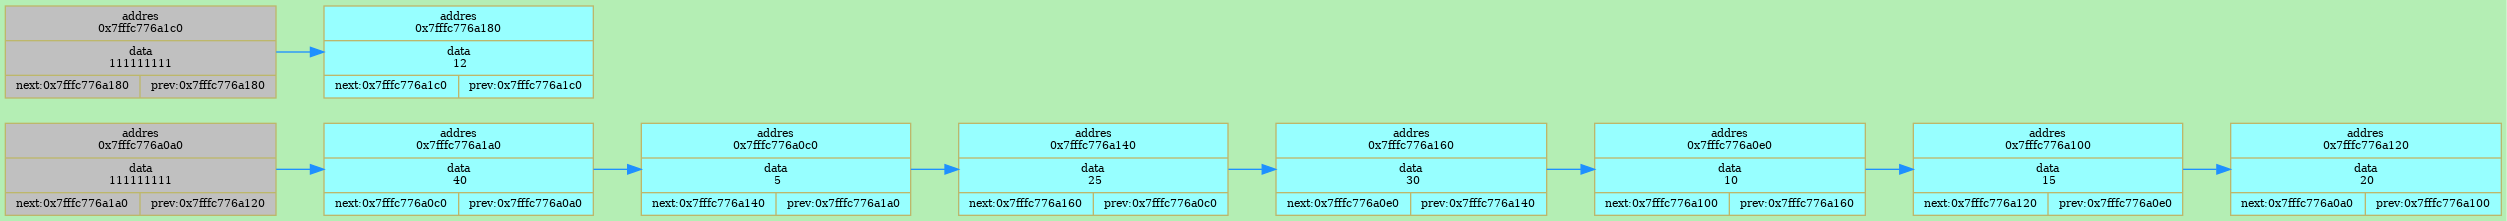
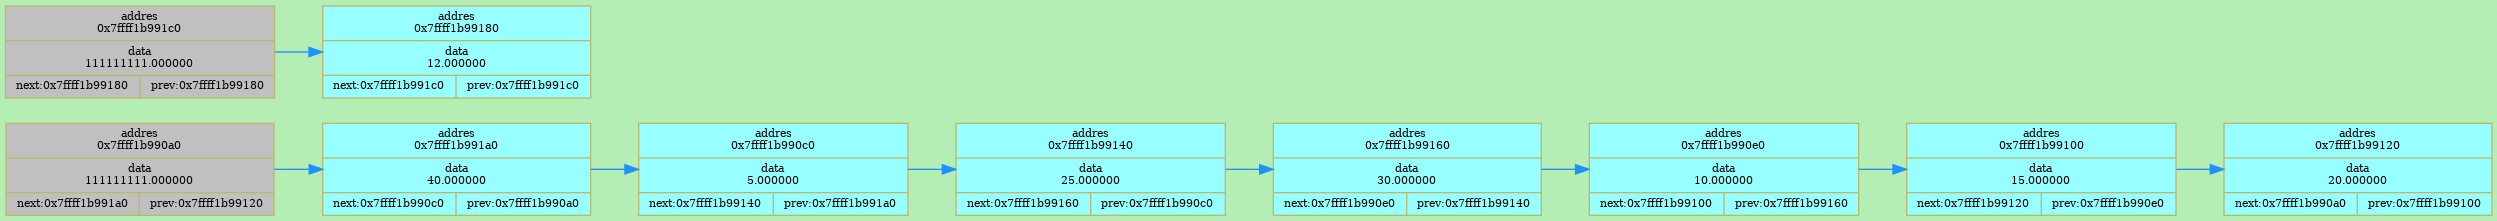
typedef

diff --git a/graphviz/graphviz.cpp b/graphviz/graphviz.cpp
@@ -13,12 +13,14 @@ void DotCtor (const char* rankdir, const char* color)
     fprintf (dotFile, "\tnode[color=%s, fontsize = 8];\n", color);
 }
 
-void DotElemCtor (void* index, int data, void* next, void* prev, const char* shape, 
+void DotElemCtor (void* index, ElemType data, void* next, void* prev, const char* shape, 
         const char* color, const char* label, const char* style)
 {
     fprintf (dotFile, "\t%s%p[shape=%s, ", label, index, shape); 
-    fprintf (dotFile, "label=\"addres\\n%p|<data> data\\n%4d|{<next>next:%p|<prev>prev:%p}\", ", 
-            index, data, next, prev);
+    fprintf (dotFile, "label=\"addres\\n%p|<data> data\\n", index);
+    fprintf (dotFile, ELEM_FMT, data);
+    
+    fprintf (dotFile, "|{<next>next:%p|<prev>prev:%p}\", ", next, prev);
     fprintf (dotFile, "fillcolor=\"%s\", style=%s];\n", color, style);
 }
 /*
@@ -51,6 +53,6 @@ void DotEnd (void)
 
     fclose (dotFile);
 
-    system ("dot dump/dot.dot -q -Tpng -o dump/dump.png");
+    system ("dot dump/dot.dot -Tpng -q -o dump/dump.png");
     system ("rm  dump/dot.dot");
 }

diff --git a/graphviz/graphviz.h b/graphviz/graphviz.h
@@ -4,9 +4,12 @@
 #include <stdio.h>
 #include <stdlib.h>
 
+typedef double ElemType;
+#define ELEM_FMT "%lf"
+
 void    DotCtor         (const char* rankdir = "LR", const char *color = "darkkhaki");
 
-void    DotElemCtor     (void* i, int data = 0, void* next = 0, void* prev = 0, 
+void    DotElemCtor     (void* i, ElemType data = 0, void* next = 0, void* prev = 0, 
         const char* shape = "record", const char* color = "darkslategray1",
         const char* label = "elem", const char* style = "filled");
 //void    DotInfoElemCtor (int capacity, int size, int head, int tail, 

diff --git a/cppLists/cppLists.h b/cppLists/cppLists.h
@@ -6,7 +6,7 @@
 
 #include "../graphviz/graphviz.h"
 
-typedef int ElemType;
+typedef double ElemType;
 
 const int           DESTROYED   =   -213;
 
